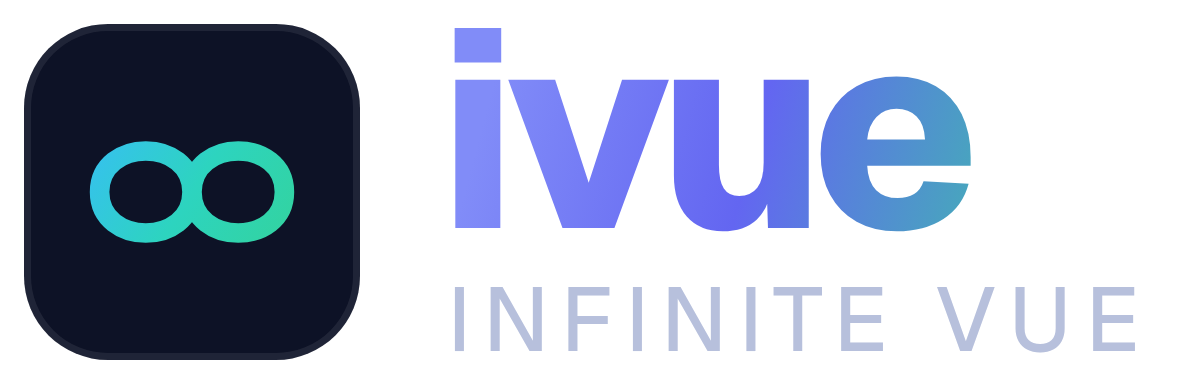
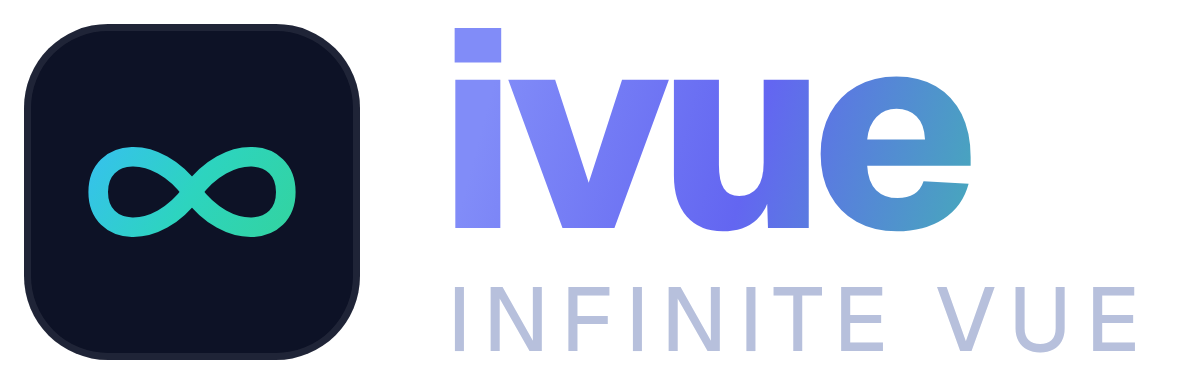
docs(brand): the mark becomes a true lemniscate
The infinity was two circles meeting at a point — an 8 on its side with a
pinched center. Redrawn as a lemniscate whose strands cross THROUGH the
center at an angle (round linejoin at the crossing). Applied to the
header logo.svg, the hero background mark, and both lockup PNGs
(regenerated at 3x).

Changed region(s): [[0.0916, 0.3438, 0.2443, 0.6562]]

diff --git a/docs_v2/.vitepress/theme/components/IvueHero.vue b/docs_v2/.vitepress/theme/components/IvueHero.vue
@@ -54,8 +54,8 @@ onUnmounted(() => {
       <div class="blob blob-b" />
       <svg class="mark" viewBox="0 0 48 48" fill="none">
         <path
-          d="M24 24 C24 15.4, 9.6 15.4, 9.6 24 C9.6 32.6, 24 32.6, 24 24 C24 15.4, 38.4 15.4, 38.4 24 C38.4 32.6, 24 32.6, 24 24"
-          stroke="url(#ivh-g)" stroke-width="2.6" stroke-linecap="round" fill="none" />
+          d="M24 24 C 19 17, 10.6 17.6, 10.6 24 C 10.6 30.4, 19 31, 24 24 C 29 17, 37.4 17.6, 37.4 24 C 37.4 30.4, 29 31, 24 24 Z"
+          stroke="url(#ivh-g)" stroke-width="2.6" stroke-linecap="round" stroke-linejoin="round" fill="none" />
         <defs>
           <linearGradient id="ivh-g" x1="8" y1="14" x2="40" y2="34" gradientUnits="userSpaceOnUse">
             <stop stop-color="#818CF8" />
